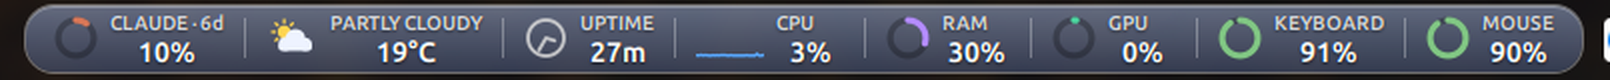
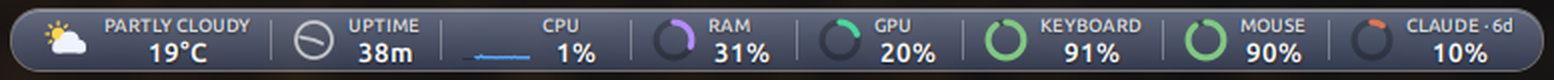
pc-pulse@puneet: centre the strip vertically in the panel
The strip now has a fixed height (panel height minus 8 px by default) and
sits centred with equal space above and below. New settings: strip height
and a vertical nudge. Default font sizes trimmed so text never clips.

diff --git a/pc-pulse@puneet/files/pc-pulse@puneet/applet.js b/pc-pulse@puneet/files/pc-pulse@puneet/applet.js
@@ -69,7 +69,7 @@ const SETTING_KEYS = [
     "refresh_ms", "smooth_samples", "custom_every", "left_click", "middle_click",
     "custom_click_cmd", "menu_details", "menu_toggles", "claude_file",
     "claude_stale_hours", "claude_show_reset", "stats_cmd",
-    "weather_units", "weather_every", "weather_caption", "drag_reorder", "logi_enabled", "logi_every",
+    "weather_units", "weather_every", "weather_caption", "drag_reorder", "logi_enabled", "logi_every", "strip_height", "v_offset",
 ];
 
 const BATTERY_LEVELS = { Full: 100, High: 80, Normal: 55, Low: 20, Critical: 5 };
@@ -259,6 +259,11 @@ class PcPulse extends Applet.Applet {
                 if (this.shadow_on) style += "box-shadow: inset 0 1px 0 rgba(255,255,255,0.30);";
             }
             this._pill.set_style(style);
+            // Fixed height, centred in the panel with equal space above and below.
+            let h = this.strip_height > 0 ? this.strip_height : Math.max(16, (this._panelHeight || 40) - 8);
+            this._pill.set_height(Math.min(h, this._panelHeight || h));
+            this._pill.translation_y = this.v_offset || 0;
+            this.actor.set_style("padding: 0 3px;");
 
             this._capStyle = this._textStyle(this.caption_size, cssColor(parseColor(this.caption_color)));
             this._valStyle = this._textStyle(this.value_size, cssColor(parseColor(this.value_color))) +
@@ -1092,6 +1097,10 @@ class PcPulse extends Applet.Applet {
 
     on_applet_middle_clicked() {
         if (this.middle_click !== "none") this._run(this.middle_click);
+    }
+
+    on_panel_height_changed() {
+        this._queueRebuild();
     }
 
     on_applet_removed_from_panel() {

diff --git a/tools/make_schema.py b/tools/make_schema.py
@@ -77,7 +77,7 @@ s = {
         "sec_glass": {"type": "section", "title": "Glass",
                       "keys": ["glass_on", "glass_top", "glass_bottom", "glass_opacity", "border_color", "border_width", "shadow_on"]},
         "sec_shape": {"type": "section", "title": "Shape and spacing",
-                      "keys": ["radius", "pad_x", "pad_y", "seg_spacing", "separators", "separator_color"]},
+                      "keys": ["strip_height", "v_offset", "radius", "pad_x", "pad_y", "seg_spacing", "separators", "separator_color"]},
         "sec_graphics": {"type": "section", "title": "Rings, bars and graphs",
                          "keys": ["gfx_size", "ring_width", "bar_width", "graph_width", "graph_points", "track_color", "graph_fill"]},
         "sec_text": {"type": "section", "title": "Text",
@@ -123,9 +123,11 @@ s = {
     "border_color": color("Border colour", "rgba(255,255,255,0.38)"),
     "border_width": spin("Border width", 1, 0, 4, 1, "px"),
     "shadow_on": sw("Top highlight line", True),
+    "strip_height": spin("Strip height (0 = panel height minus 8 px)", 0, 0, 120, 1, "px"),
+    "v_offset": spin("Vertical nudge (negative = up)", 0, -10, 10, 1, "px"),
     "radius": spin("Corner radius", 15, 0, 30, 1, "px"),
     "pad_x": spin("Inner padding, sides", 10, 0, 30, 1, "px"),
-    "pad_y": spin("Inner padding, top and bottom", 2, 0, 10, 1, "px"),
+    "pad_y": spin("Inner padding, top and bottom", 0, 0, 10, 1, "px"),
     "seg_spacing": spin("Space between widgets", 4, 0, 30, 1, "px"),
     "separators": sw("Dividers between widgets", True),
     "separator_color": color("Divider colour", "rgba(255,255,255,0.30)"),
@@ -138,9 +140,9 @@ s = {
     "graph_fill": sw("Fill under graphs", True),
     "font_family": entry("Font (blank = theme font)", "", "Any installed font, for example Inter, Ubuntu, JetBrains Mono"),
     "show_captions": sw("Show captions above values", True),
-    "caption_size": spin("Caption size", 7.5, 5, 14, 0.5, "pt"),
+    "caption_size": spin("Caption size", 7, 5, 14, 0.5, "pt"),
     "caption_color": color("Caption colour", "rgba(255,255,255,0.80)"),
-    "value_size": spin("Value size", 10.5, 6, 20, 0.5, "pt"),
+    "value_size": spin("Value size", 10, 6, 20, 0.5, "pt"),
     "value_color": color("Value colour", "rgb(255,255,255)"),
     "value_min_width": spin("Value minimum width (stops jitter)", 34, 0, 120, 1, "px"),
     "text_shadow": sw("Text shadow", True),
